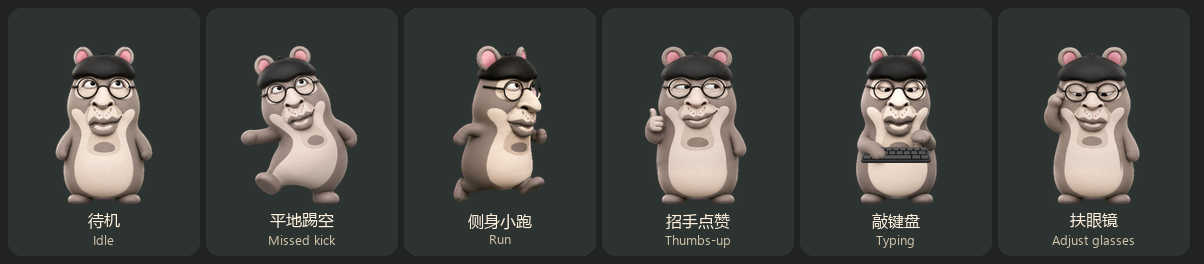
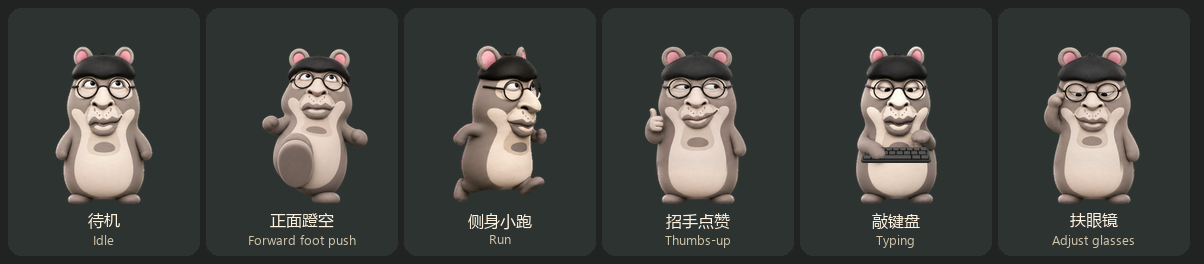
Match the reference with a straight forward foot push

Changed region(s): [[0.1844, 0.1818, 0.3073, 0.7273], [0.2151, 0.7879, 0.3073, 0.9394]]

diff --git a/README.md b/README.md
@@ -1,22 +1,22 @@
 # 飞飞鼠 · Feifeishu for Codex
 
-飞飞鼠是可以装进 **Codex 桌面应用**的 Faker 梗图桌宠，也叫大飞鼠、飞天鼠。它戴着圆眼镜，一只脚踩地，另一条腿努力朝镜头伸一下，踢空了才捂脸偷看。
+飞飞鼠是可以装进 **Codex 桌面应用**的 Faker 梗图桌宠，也叫大飞鼠、飞天鼠。它戴着圆眼镜，一只脚踩地，另一只脚直直往前一蹬，蹬空了才捂脸偷看。
 
-**Feifeishu** is an animated **Codex desktop pet** inspired by the **Faker Flying Squirrel** and **Faker Flying Mouse** memes. When a task fails, it plants one foot, reaches forward with the other, misses, and peeks out from behind its paws. It also waves, types with alternating paws, and adjusts its glasses during review.
+**Feifeishu** is an animated **Codex desktop pet** inspired by the **Faker Flying Squirrel** and **Faker Flying Mouse** memes. When a task fails, it plants one foot, pushes the other straight forward, misses, and peeks out from behind its paws. It also waves, types with alternating paws, and adjusts its glasses during review.
 
 [**下载 Windows 安装包 · Download for Windows**](https://github.com/99Like-wjj/feifeishu-codex-pet/releases/latest/download/feifeishu-codex-pet-windows.zip) · [版本记录 · Releases](https://github.com/99Like-wjj/feifeishu-codex-pet/releases)
 
-![最终版飞飞鼠的待机、平地踢空、侧面跑动、点赞、敲键盘和扶眼镜](docs/images/preview.png)
+![最终版飞飞鼠的待机、正面蹬空、侧面跑动、点赞、敲键盘和扶眼镜](docs/images/preview.png)
 
-## 平地踢空 · Grounded kick
+## 正面前蹬 · Forward foot push
 
-**任务失败时**，飞飞鼠先把重心压到支撑脚上，侧身蓄力，再带着肩和髋一起伸腿。踢空后身体回摆，踩回原位，再捂脸偷看。镜头沿用桌宠的固定正面视角。**鼠标悬停**时播放普通跳跃。
+**任务失败时**，飞飞鼠先屈膝抬脚，再用脚底朝正面一蹬。出脚时上身微仰，蹬空后身体前倾，脚沿原路收回，再捂脸偷看。镜头沿用桌宠的固定正面视角。**鼠标悬停**时播放普通跳跃。
 
-The grounded kick plays in the desktop pet’s **failed task** animation. It shifts its weight, turns its shoulders and hips into the kick, then rocks back to recover. The desktop camera stays fixed. Hover over the floating pet to see its regular hop.
+The forward foot push plays in the desktop pet’s **failed task** animation. It tucks its knee, presses one sole straight forward, then rocks forward as it retracts the foot. The front camera stays fixed. Hover over the floating pet to see its regular hop.
 
-![飞飞鼠踩住一只脚，伸出另一条腿踢空，收脚后捂脸偷看](docs/images/ground-kick.gif)
+![飞飞鼠一只脚踩地，另一只脚朝正面蹬空，收脚后捂脸偷看](docs/images/ground-kick.gif)
 
-动作参考了视频约 1.53–2.20 秒处的重心转移，以及约 10.20–10.57 秒处的伸腿与收脚节奏。[飞飞鼠与马头羊（再补档）](https://www.bilibili.com/video/BV1Gj476zEQL/)
+动作参考了视频约 1.53–2.20 秒处屈膝、脚底朝前蹬出并收回的节奏。[飞飞鼠与马头羊（再补档）](https://www.bilibili.com/video/BV1Gj476zEQL/)
 
 <details>
 <summary>播放九种状态 · Watch all nine animations</summary>
@@ -47,7 +47,7 @@ The grounded kick plays in the desktop pet’s **failed task** animation. It shi
 | 左右走动 | 侧身小跑 | Run left or right |
 | 招手 | 挥爪后竖拇指 | Wave and give a thumbs-up |
 | 悬停跳跃 | 起跳、腾空、落地 | Hop and land |
-| 任务失败 | 站着伸腿踢空，收脚后捂脸偷看 | Grounded kick, whiff, facepalm, and peek |
+| 任务失败 | 屈膝直蹬，收脚后捂脸偷看 | Forward foot push, retract, facepalm, and peek |
 | 等待 | 合手等一会儿，再摊开手 | Clasp paws, then shrug |
 | 工作 | 左右爪交替敲小键盘 | Type with alternating paws |
 | 审阅 | 眯眼扶镜框 | Squint and adjust glasses |
